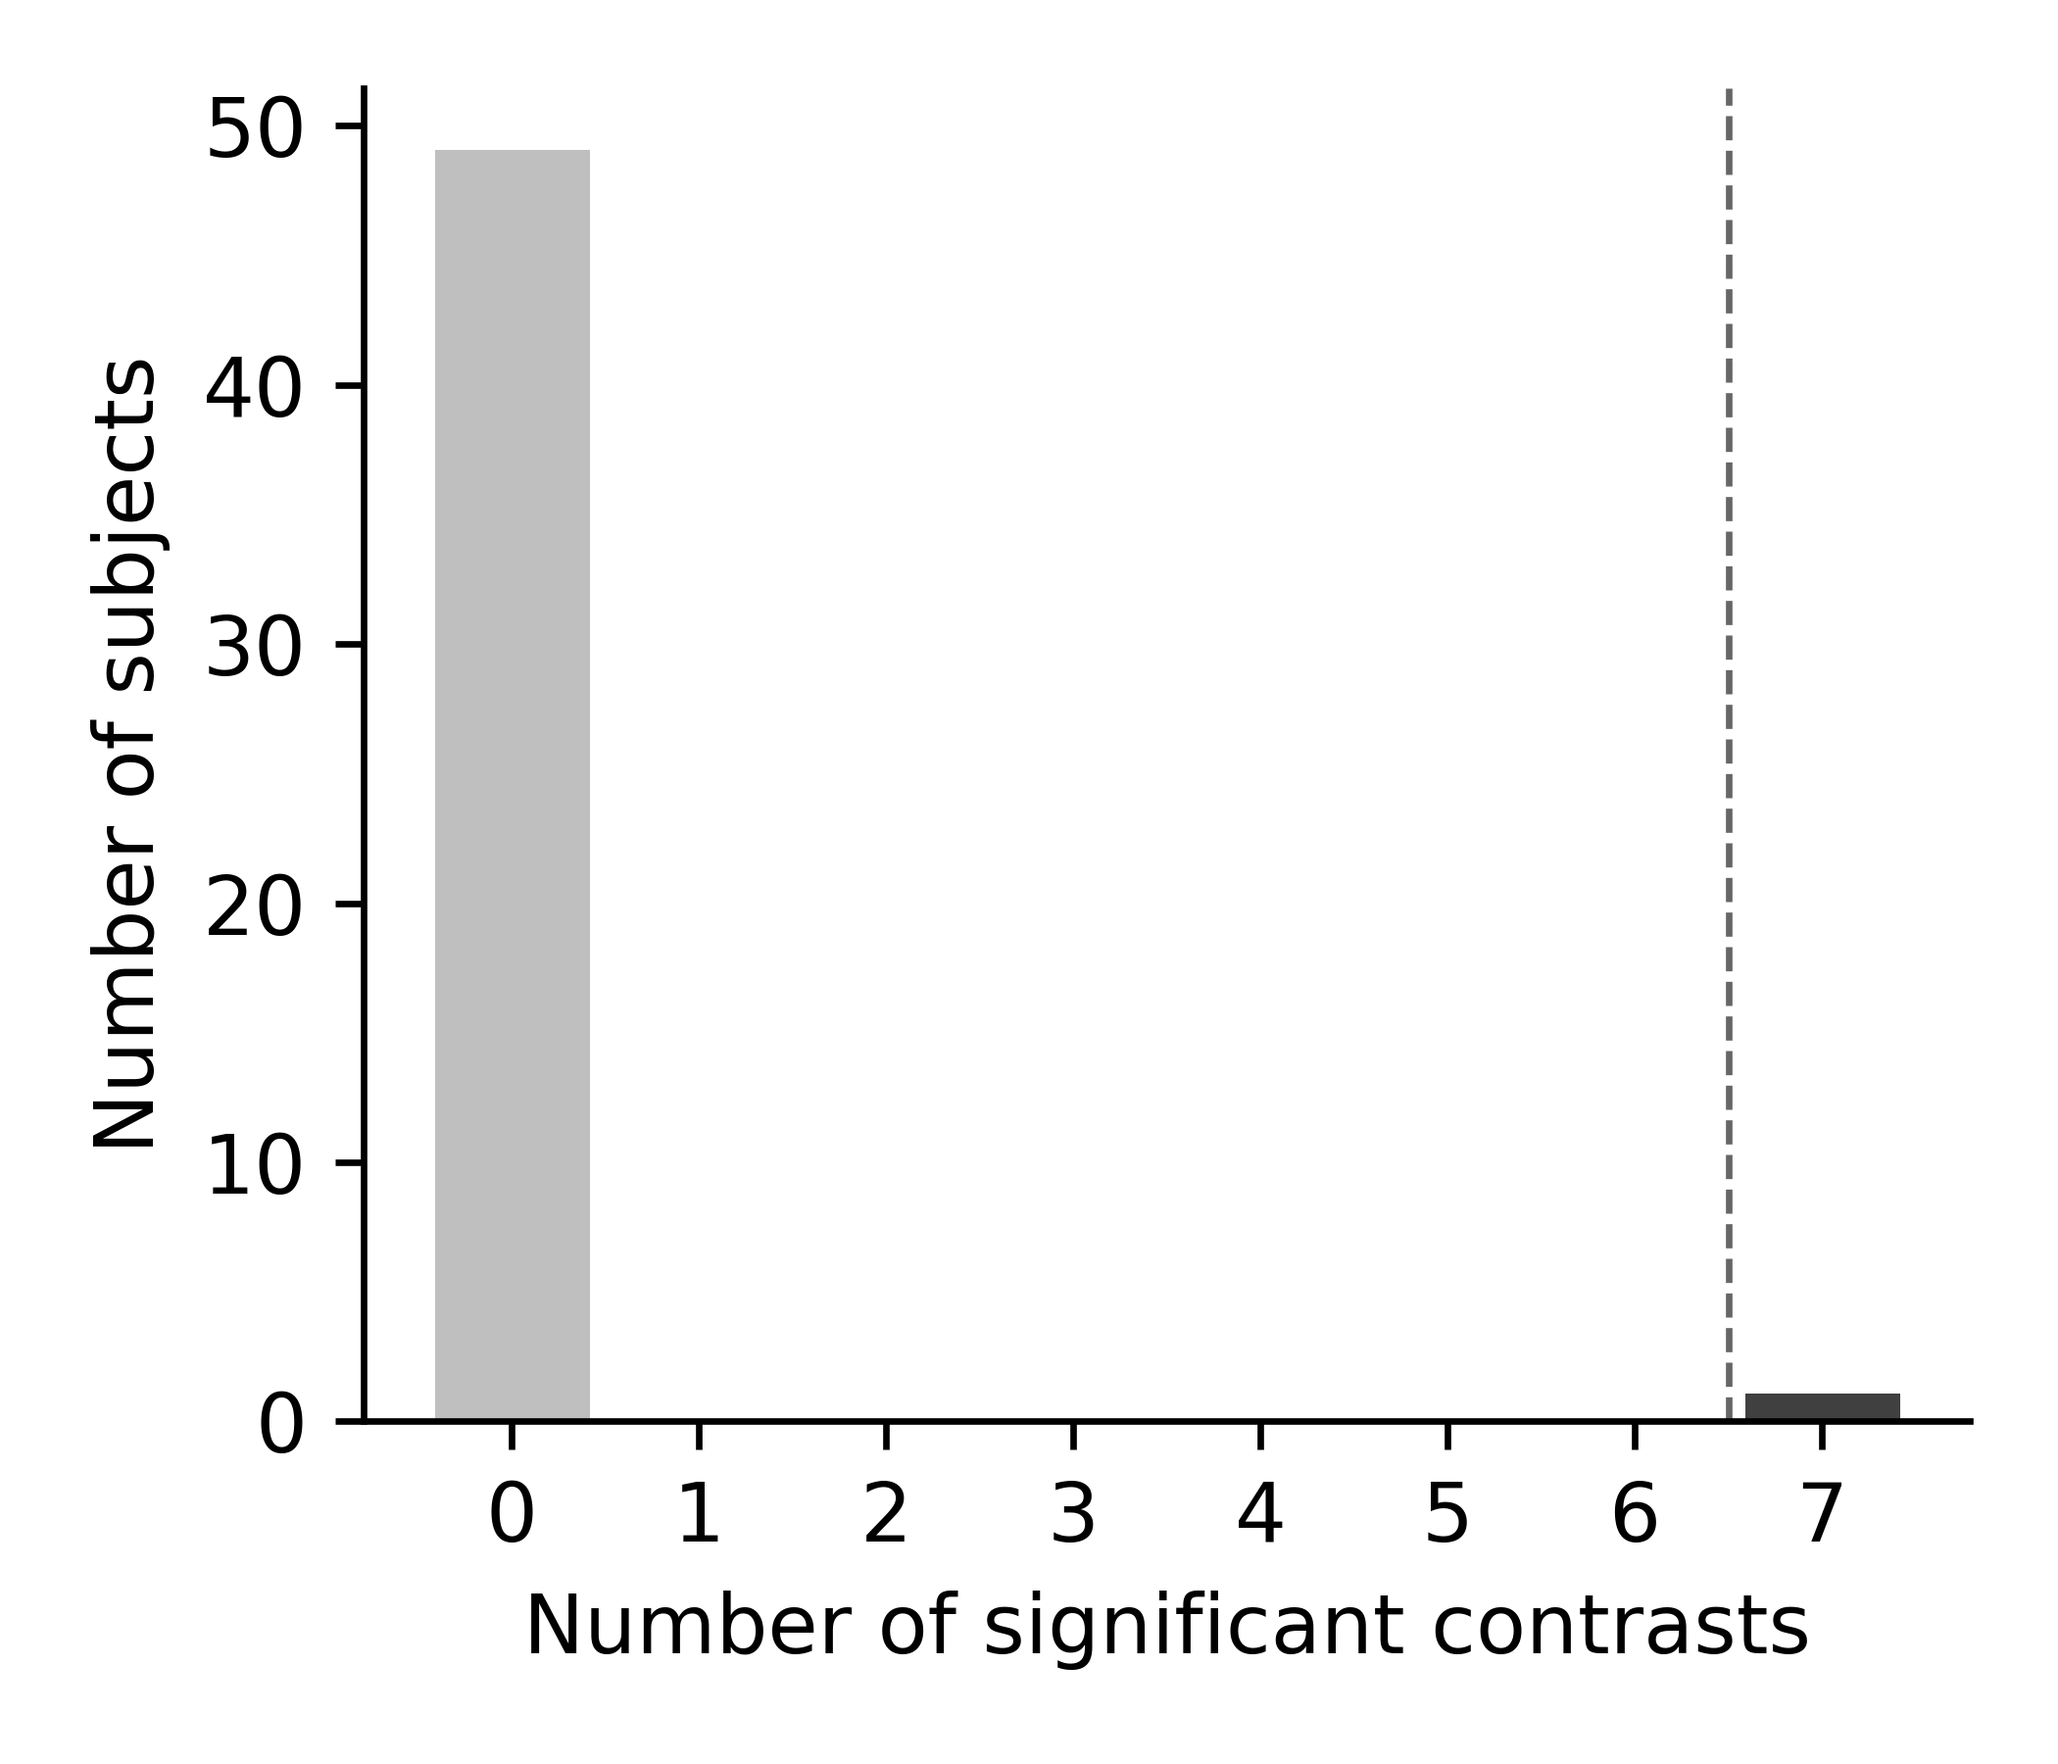
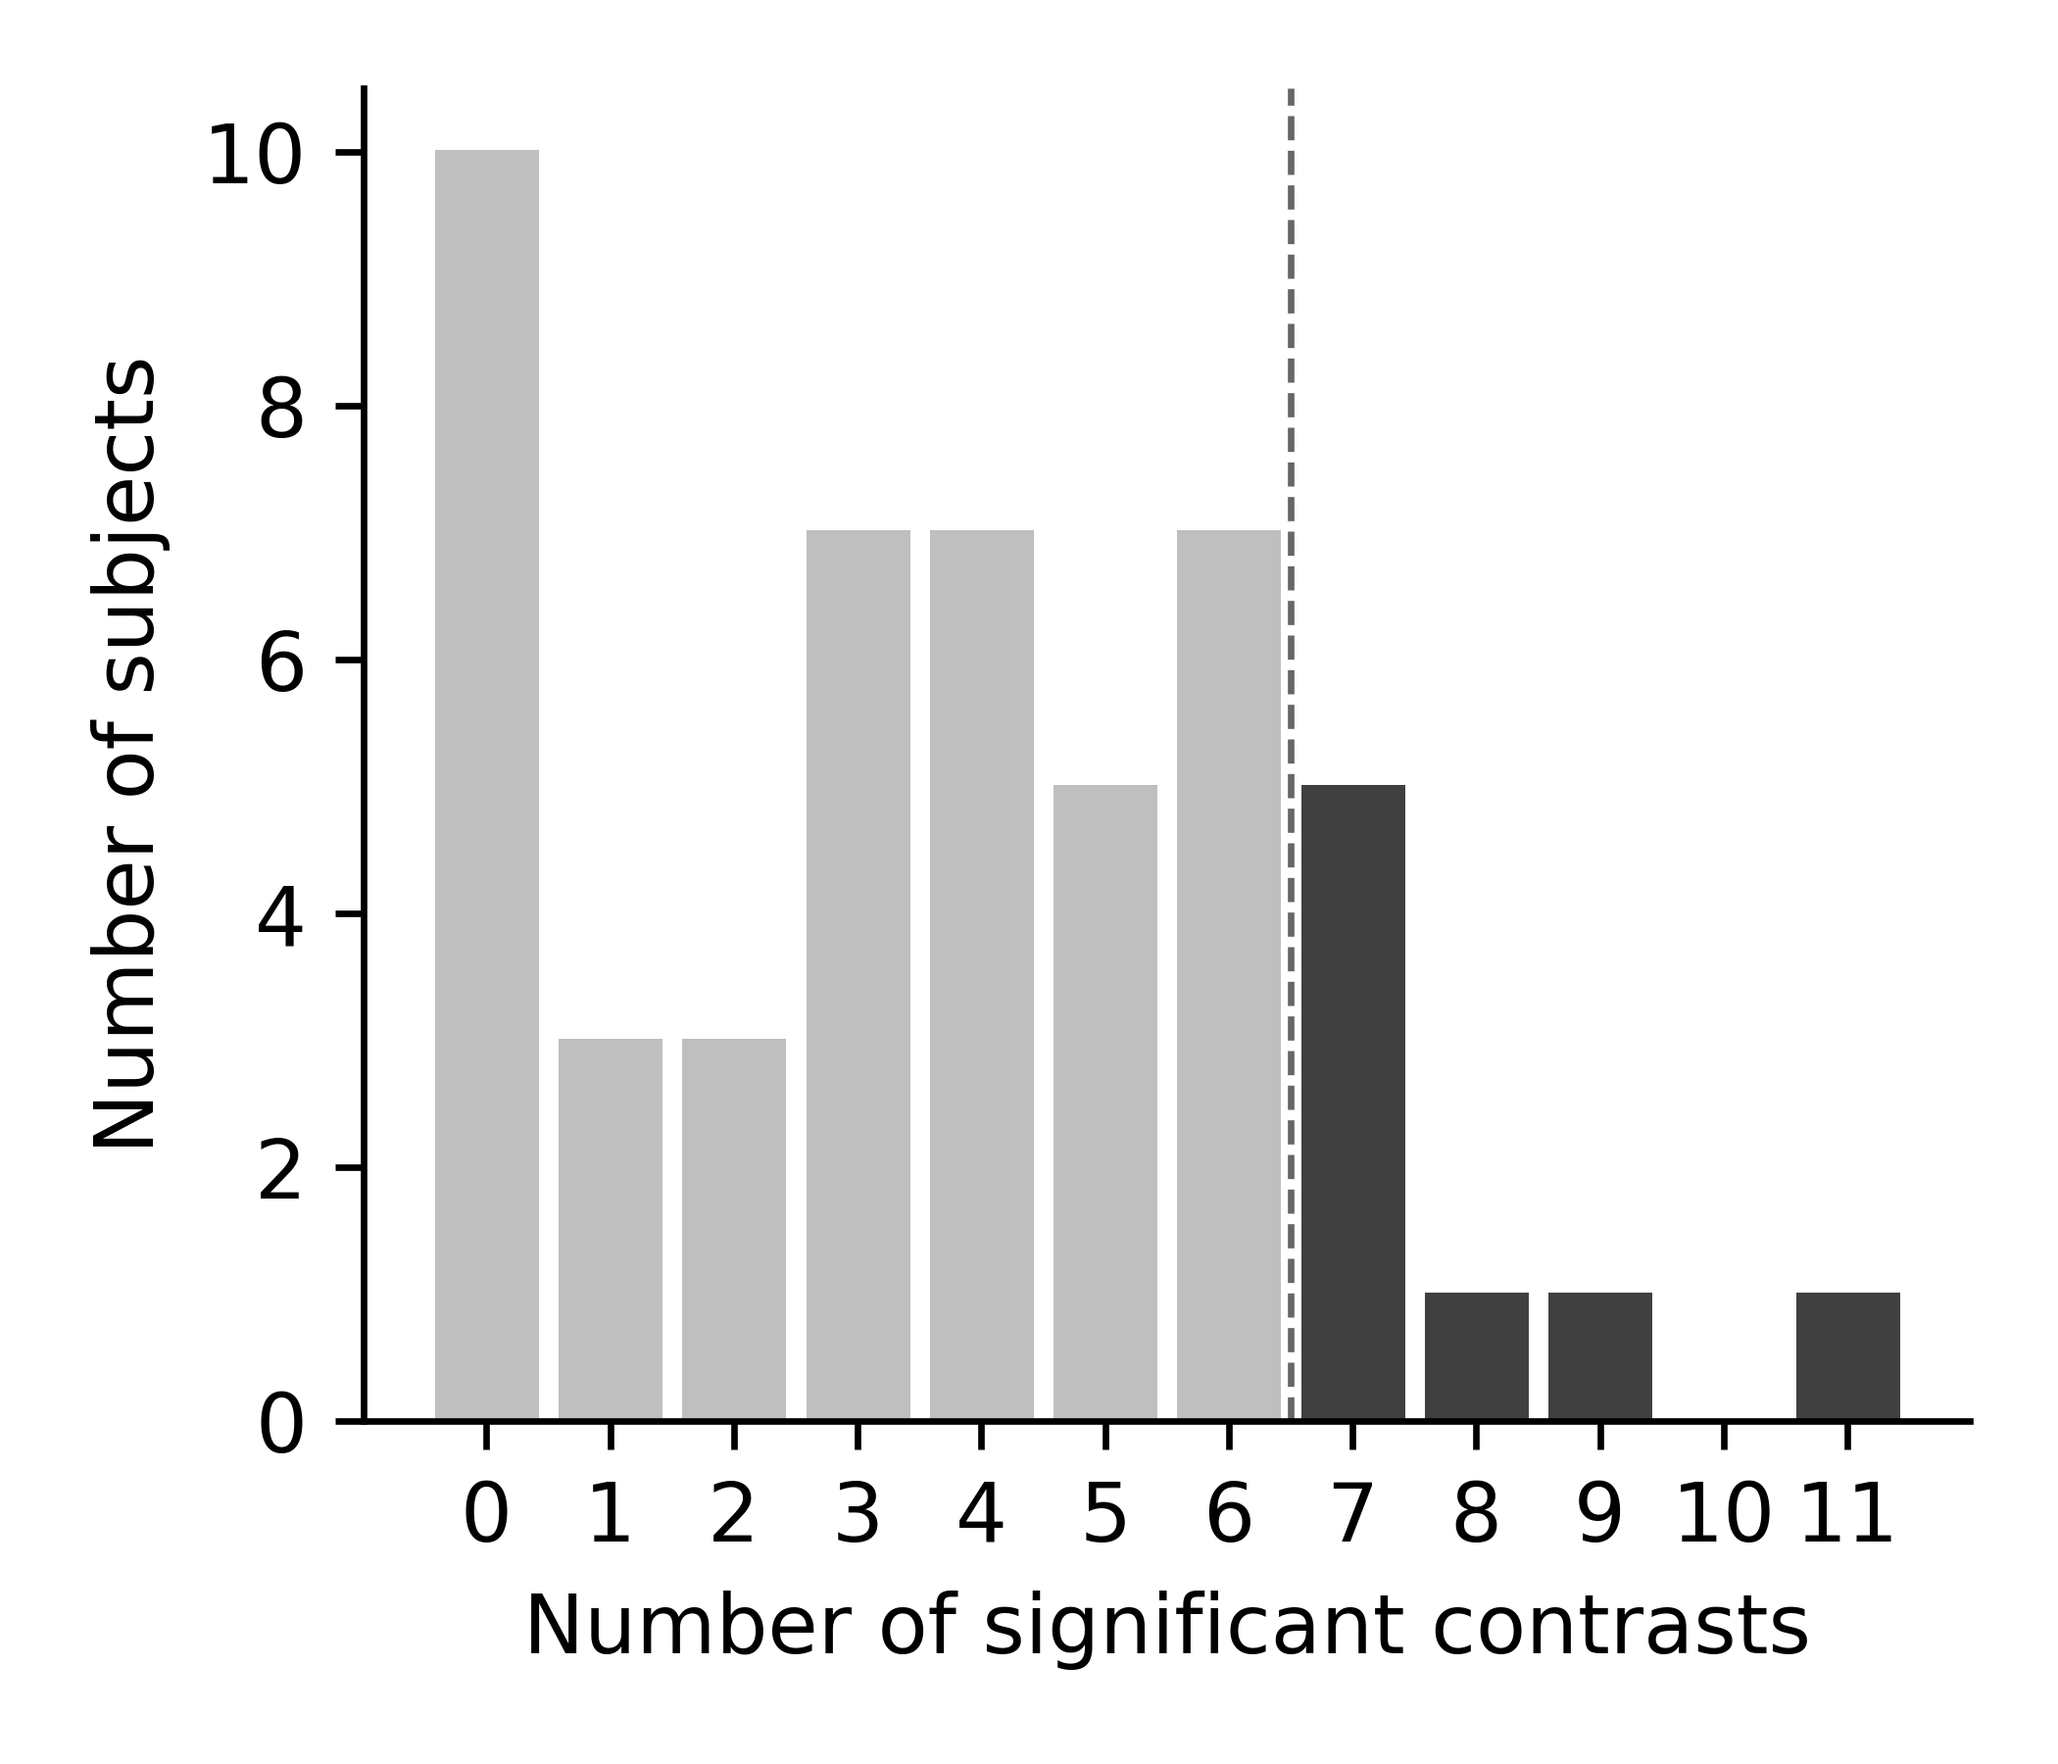
Did a bit of cleaning in the process of figuring out why the script suddenly couldn't run. Turns out the problem was a pip update of nilearn

diff --git a/data_analysis/glm_analysis_clean.py b/data_analysis/glm_analysis_clean.py
@@ -32,6 +32,14 @@ from collections import Counter
 
 import mne_nirs
 
+from mne.io.pick import _picks_to_idx
+from nilearn.glm.first_level import run_glm as nilearn_glm
+from mne_nirs.statistics import RegressionResults
+
+from nilearn.glm.first_level.hemodynamic_models import _calculate_tr
+from nilearn.glm.first_level.hemodynamic_models import _gamma_difference_hrf
+from functools import partial
+
 load_dotenv()
 save_path = Path(os.getenv(rf"data_save_path"))
 
@@ -46,9 +54,6 @@ save_path = Path(os.getenv(rf"data_save_path"))
 
 drug_path = Path(os.getenv(rf"Marwan_drug_data"))
 
-from mne.io.pick import _picks_to_idx
-from nilearn.glm.first_level import run_glm as nilearn_glm
-from mne_nirs.statistics import RegressionResults
 
 def _run_glm(method, raw, design_matrix, noise_model="ar1", bins=0, n_jobs=1, verbose=0):
     """
@@ -266,9 +271,7 @@ def run_glm_analysis(subjects, class_instance, drift_model="cosine", hrf_model="
         drift_order = 1 # When we use the cosine drift model this parameter doesn't really matter, as the drift order is then actually determined by the high_pass argument
         add_reg_names = short_channel_haemo.ch_names
         fir_delays = range(21) # Default when we don't use a FIR model
-        from nilearn.glm.first_level.hemodynamic_models import _calculate_tr
-        from nilearn.glm.first_level.hemodynamic_models import _gamma_difference_hrf
-        from functools import partial
+
         t_r = _calculate_tr(frame_times)    
         hrf_model_ = partial(
         _gamma_difference_hrf,
@@ -325,36 +328,36 @@ def run_glm_analysis(subjects, class_instance, drift_model="cosine", hrf_model="
         cha["Group"] = "HC" if idx < number_of_subjects[0] else "Patient"
     
         contrast_results = {}
-        # if "Marwan" in class_instance.data_name:
-        #     # Get column names for reference
-        #     cols = conditions.tolist()
-        #     cols = [col.replace(hrf_model_suffix, "") for col in cols]
+        if "Marwan" in class_instance.data_name:
+            # Get column names for reference
+            cols = conditions.tolist()
+            cols = [col.replace(hrf_model_suffix, "") for col in cols]
 
-        #     # Find indices of your conditions
-        #     condition_indices = {}
-        #     types = np.unique(haemo.annotations.description)
-        #     for type_name in types:
-        #         condition_indices[type_name] = cols.index(type_name)
-        #     # Create contrast vectors
-        #     contrasts = {}
-        #     for key in condition_indices.keys():
-        #         if key == "Control":
-        #             continue
-        #         contrast_array = np.zeros(len(cols))
-        #         contrast_array[condition_indices["Control"]] = -1
-        #         contrast_array[condition_indices[key]] = 1
-        #         contrasts[f"{key}_vs_Control"] = contrast_array
-        #     # Store all contrast results
-        #     for name, expr in contrasts.items():
-        #         print(f"{name} => contrast vector")
-        #         result = glm_estimates.compute_contrast(expr)
-        #         # Convert to DataFrame
-        #         df = result.to_dataframe()
-        #         df['contrast'] = name
-        #         df['ID'] = subject.name + "_" + ("HC" if idx < number_of_subjects[0] else "Patient")
-        #         df['Group'] = "HC" if idx < number_of_subjects[0] else "Patient"
+            # Find indices of your conditions
+            condition_indices = {}
+            types = np.unique(haemo.annotations.description)
+            for type_name in types:
+                condition_indices[type_name] = cols.index(type_name)
+            # Create contrast vectors
+            contrasts = {}
+            for key in condition_indices.keys():
+                if key == "Control":
+                    continue
+                contrast_array = np.zeros(len(cols))
+                contrast_array[condition_indices["Control"]] = -1
+                contrast_array[condition_indices[key]] = 1
+                contrasts[f"{key}_vs_Control"] = contrast_array
+            # Store all contrast results
+            for name, expr in contrasts.items():
+                print(f"{name} => contrast vector")
+                result = glm_estimates.compute_contrast(expr)
+                # Convert to DataFrame
+                df = result.to_dataframe()
+                df['contrast'] = name
+                df['ID'] = subject.name + "_" + ("HC" if idx < number_of_subjects[0] else "Patient")
+                df['Group'] = "HC" if idx < number_of_subjects[0] else "Patient"
                 
-        #         contrast_results[name] = df
+                contrast_results[name] = df
         
         return haemo, design_matrix, cha, contrast_results, isis
     
@@ -438,12 +441,12 @@ def run_glm_analysis(subjects, class_instance, drift_model="cosine", hrf_model="
                                         )
             ch_summary.loc[ch_summary['Recording'] == 0, 'Drug'] = 'No_Drug'
         
-#         with localconverter(pandas2ri.converter):
-#             globalenv["rdf"] = ch_summary
+        with localconverter(pandas2ri.converter):
+            globalenv["rdf"] = ch_summary
 #         globalenv["Phase_1_assumptions_plot_save_path"] = str(Phase_1_assumptions_plot_save_path).replace("\\", "/")
 #         globalenv["Phase_2_assumptions_plot_save_path"] = str(Phase_2_assumptions_plot_save_path).replace("\\", "/")
 #         globalenv["Phase_3_assumptions_plot_save_path"] = str(Phase_3_assumptions_plot_save_path).replace("\\", "/")
-#         ch_summary.to_csv(os.path.join(save_path, f'glm_betas_summary.csv'), index=False)
+        ch_summary.to_csv(os.path.join(save_path, f'glm_betas_summary.csv'), index=False)
 #         lme4 = importr("lme4")
         
 #         model = "Condition_Group" #"Condition" #"Drug2" #  "Drug" #
@@ -1728,7 +1731,7 @@ from collections import defaultdict
 from preprocessing_toolbox.load_data_function import data_loaders
 
 dataSetList = list(data_loaders.keys())
-dataLoaders = [dataSetList[19]] #, dataSetList[17]]
+dataLoaders = [dataSetList[-1]] #, dataSetList[17]]
 datasets = defaultdict(defaultdict)
 
 for data_loader in dataLoaders:
@@ -1778,15 +1781,13 @@ for data_loader in dataLoaders:
 
 all_participants = datasets[dataLoaders[0]]["all_individuals"] #+ datasets[dataLoaders[1]]["all_individuals"]
 number_of_subjects = [len(datasets[dataLoaders[0]]["all_individuals"])]#, len((datasets[dataLoaders[1]]["all_individuals"]))]
-all_participants = datasets[dataLoaders[0]]["all_individuals"] #+ datasets[dataLoaders[1]]["all_individuals"]
-number_of_subjects = [len(datasets[dataLoaders[0]]["all_individuals"])]#, len((datasets[dataLoaders[1]]["all_individuals"]))]
 
-names = {}
-for participant in all_participants:
-    names.setdefault(participant.name[:2], []).append(participant)
+# names = {}
+# for participant in all_participants:
+#     names.setdefault(participant.name[:2], []).append(participant)
 
-standardize = lambda ch: (ch - ch.mean()) / ch.std()
-for key, value in names.items():
-  names[key] = [val.raw_haemo.apply_function(standardize, "all", channel_wise=True) for val in value]
+# standardize = lambda ch: (ch - ch.mean()) / ch.std()
+# for key, value in names.items():
+#   names[key] = [val.raw_haemo.apply_function(standardize, "all", channel_wise=True) for val in value]
 
 run_glm_analysis(all_participants, current_loader, "cosine", "glover", number_of_subjects)

diff --git a/preprocessing_toolbox/Data_processesing_class.py b/preprocessing_toolbox/Data_processesing_class.py
@@ -3648,7 +3648,7 @@ class fNIRS_EEG_Marwan_data_load(fNIRS_data_load):
         self.snr_rejection = snr_rejection
         self.snr_threshold = snr_threshold
         self.apply_tddr = apply_tddr
-        self.subjects_to_exclude = {"fNIRS EEG Marwan data load": ["P20", "P29", "P9"], 
+        self.subjects_to_exclude = {"fNIRS EEG Marwan data load": ["P20", "P29", "P9", "P10", "P40", "P41", "P43", "P44"], 
                                     }
         self.folder_errors = []
         self.age_file = Path(os.getenv("demographic_data_path_Marwan".replace(" ", "_").replace("-", "_")))
@@ -3855,7 +3855,7 @@ class fNIRS_EEG_Marwan_data_load(fNIRS_data_load):
                 print("ERROR")
             if patient_name[:3] in self.subjects_to_exclude[self.data_name]:
                 continue
-            if not patient_name[:3] in ["P3_", "P9_"]:
+            if patient_name[:3] not in ["P5", "P10", "P28"]:
                 continue
             try:
                 raw_intensity = self.define_raw_intensity(folder_name)

diff --git a/plotting_functions/worst_best_beta_scores.py b/plotting_functions/worst_best_beta_scores.py
@@ -133,8 +133,6 @@ all_conditions = list(np.unique(datasets[dataLoaders[0]]["all_epochs"][0].annota
 
 _epochs = [ind.epochs for ind in datasets[dataLoaders[0]]["all_individuals"]]
 names = [ind.name for ind in datasets[dataLoaders[0]]["all_individuals"]]
-tmax = 26
-times = np.arange(0, tmax, 5)
 
 relevant_data_types = list(np.unique([condition for condition in all_conditions if "Math" in condition]))
 picks_ =  [ch for ch in long_channels]
